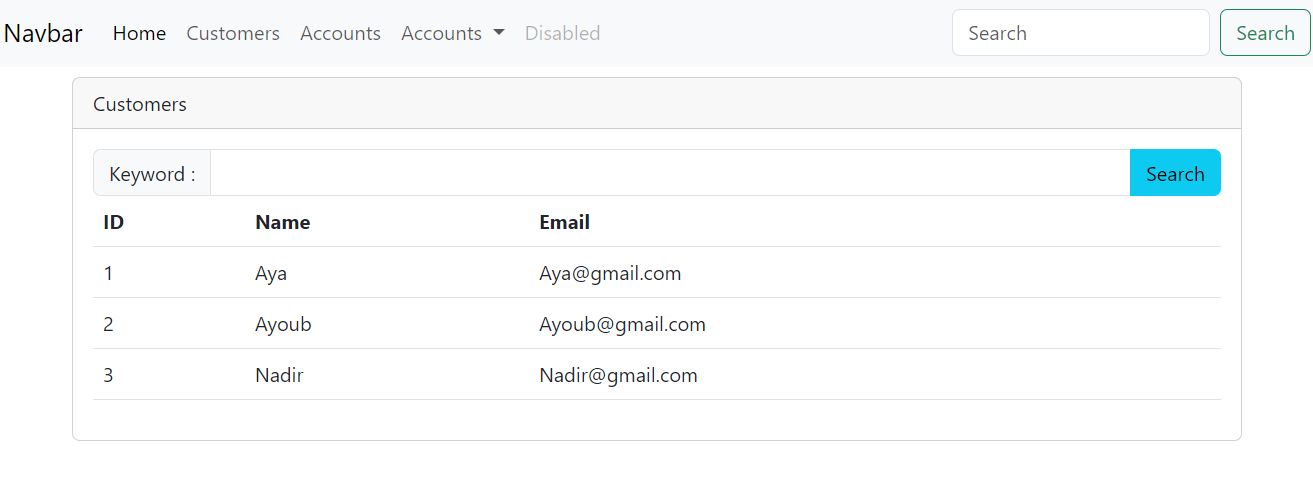
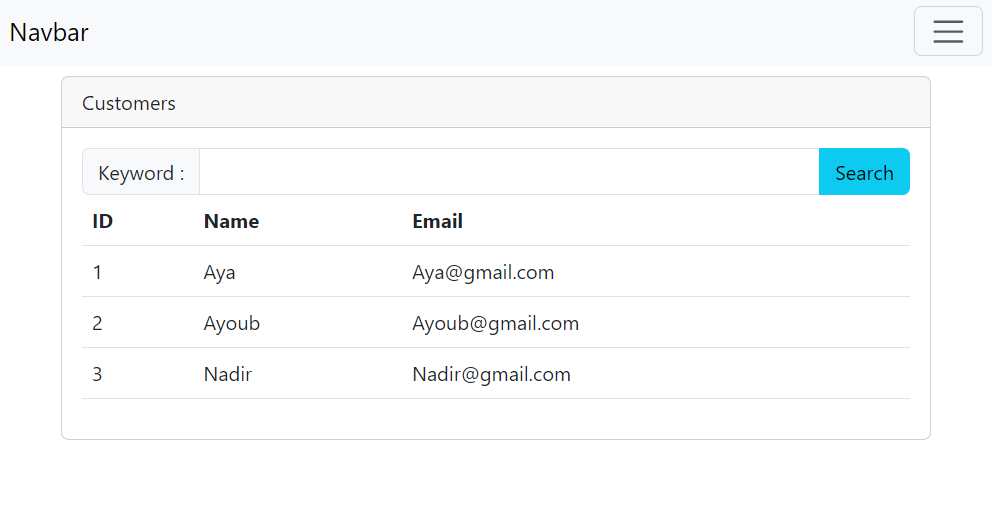
updates

diff --git a/ebanking-frontend/src/app/navbar/navbar.component.html b/ebanking-frontend/src/app/navbar/navbar.component.html
@@ -1,4 +1,4 @@
-<nav class="navbar navbar-expand-lg navbar-light bg-light">
+<nav class="navbar navbar-expand-lg navbar-dark bg-dark">
   <div class="container-fluid">
     <a class="navbar-brand" href="#">Navbar</a>
     <button class="navbar-toggler" type="button" data-bs-toggle="collapse" data-bs-target="#navbarSupportedContent" aria-controls="navbarSupportedContent" aria-expanded="false" aria-label="Toggle navigation">
@@ -10,20 +10,16 @@
           <a class="nav-link active" aria-current="page" href="#">Home</a>
         </li>
         <li class="nav-item">
-          <a class="nav-link" routerLink="/customers">Customers</a>
-        </li>
-        <li class="nav-item">
           <a class="nav-link" routerLink="/accounts">Accounts</a>
         </li>
         <li class="nav-item dropdown">
           <a class="nav-link dropdown-toggle" href="#" id="navbarDropdown" role="button" data-bs-toggle="dropdown" aria-expanded="false">
-            Accounts
+            Customers
           </a>
           <ul class="dropdown-menu" aria-labelledby="navbarDropdown">
-            <li><a class="dropdown-item" href="#">Accounts</a></li>
-            <li><a class="dropdown-item" href="#">Another action</a></li>
+            <li><a class="dropdown-item" routerLink="/customers">Search customers</a></li>
+            <li><a class="dropdown-item" routerLink="/new-customer">New customer</a></li>
             <li><hr class="dropdown-divider"></li>
-            <li><a class="dropdown-item" href="#">Something else here</a></li>
           </ul>
         </li>
         <li class="nav-item">

diff --git a/ebanking-frontend/src/app/new-customer/new-customer.component.html b/ebanking-frontend/src/app/new-customer/new-customer.component.html
@@ -1,0 +1,34 @@
+<div class="container">
+  <div class="card col-md-6 offset-3 mt-5">
+    <div class="card-header bg-primary text-white">New Customer</div>
+    <div class="card-body">
+      <form [formGroup]="newCustomerFormGroup" (ngSubmit)="handleSaveCustomer()" class="needs-validation" novalidate>
+        <div class="mb-3">
+          <div class="form-group">
+            <label class="font-weight-bold">Name:</label>
+            <input type="text" formControlName="name" class="form-control">
+            <span class="text-danger"
+                  *ngIf="newCustomerFormGroup.controls['name'].touched
+                        && newCustomerFormGroup.controls['name'].errors
+                        && newCustomerFormGroup.controls['name'].errors!['required']">
+              Name is Required
+            </span>
+          </div>
+          <div class="form-group">
+            <label class="font-weight-bold">Email:</label>
+            <input type="text" formControlName="email" class="form-control">
+            <span class="text-danger"
+                  *ngIf="newCustomerFormGroup.controls['email'].touched
+                        && newCustomerFormGroup.controls['email'].errors
+                        && newCustomerFormGroup.controls['email'].errors!['email']">
+              Email is not Valid
+            </span>
+          </div>
+        </div>
+        <div class="d-grid">
+          <button [disabled]="newCustomerFormGroup.invalid" class="btn btn-primary btn-lg rounded-end">Save</button>
+        </div>
+      </form>
+    </div>
+  </div>
+</div>

diff --git a/ebanking-frontend/src/app/new-customer/new-customer.component.ts b/ebanking-frontend/src/app/new-customer/new-customer.component.ts
@@ -1,0 +1,35 @@
+import {Component, OnInit} from '@angular/core';
+import {FormBuilder, FormGroup, Validators} from "@angular/forms";
+import {CustomerService} from "../services/customer.service";
+import {Router} from "@angular/router";
+import {Customer} from "../model/customer.model";
+
+@Component({
+  selector: 'app-new-customer',
+  templateUrl: './new-customer.component.html',
+  styleUrls: ['./new-customer.component.css']
+})
+export class NewCustomerComponent implements OnInit{
+  newCustomerFormGroup! :FormGroup;
+  constructor(private fb :FormBuilder,private customerService : CustomerService, private router : Router) {
+  }
+  ngOnInit(): void {
+    this.newCustomerFormGroup=this.fb.group({
+      name: this.fb.control(null,[Validators.required , Validators.minLength(4)]),
+      email :this.fb.control(null, [Validators.required, Validators.email])
+    });
+  }
+
+  handleSaveCustomer() {
+    let customer : Customer = this.newCustomerFormGroup.value
+    this.customerService.saveCustomer(customer).subscribe({
+      next : data => {
+        alert("Customer has been saved!")
+        //this.newCustomerFormGroup.reset();
+        this.router.navigateByUrl("/customers")
+      }, error : err => {
+        console.log(err)
+      }
+    })
+  }
+}

diff --git a/ebanking-frontend/src/app/customers/customers.component.html b/ebanking-frontend/src/app/customers/customers.component.html
@@ -8,7 +8,9 @@
             <div class="input-group">
               <label class="input-group-text">Keyword :</label>
               <input type="text" formControlName="keyword" class="form-control">
-              <button class="btn btn-info">Search</button>
+              <button class="btn btn-info">
+                <i class="bi bi-search"></i>
+              </button>
             </div>
           </form>
         </div>
@@ -23,6 +25,16 @@
             <td>{{c.id}}</td>
             <td>{{c.name}}</td>
             <td>{{c.email}}</td>
+            <td>
+              <div class="d-flex justify-content-start">
+                <button class="btn btn-light btn-action me-4" routerLink="/editCustomer">
+                  <i class="bi bi-pencil-fill"></i>
+                </button>
+                <button class="btn btn-danger btn-action me-4" (click)="handleDeleteCustomer(c)">
+                  <i class="bi bi-trash-fill"></i>
+                </button>
+              </div>
+            </td>
           </tr>
           </tbody>
         </table>

diff --git a/ebanking-frontend/src/app/customers/customers.component.ts b/ebanking-frontend/src/app/customers/customers.component.ts
@@ -1,7 +1,7 @@
 import {Component, OnInit} from '@angular/core';
 import {HttpClient} from "@angular/common/http";
 import {CustomerService} from "../services/customer.service";
-import {catchError, Observable, throwError} from "rxjs";
+import {catchError, map, Observable, throwError} from "rxjs";
 import {Customer} from "../model/customer.model";
 import {FormBuilder, FormGroup} from "@angular/forms";
 
@@ -30,6 +30,25 @@ export class CustomersComponent implements OnInit{
         return throwError(err);
       })
     );
+
+  }
+
+  handleDeleteCustomer(c: Customer) {
+    let conf = confirm("Are you sure?");
+    if(!conf) return;
+    this.customerService.deleteCustomer(c.id).subscribe({
+      next : (resp) => {
+        this.customers = this.customers.pipe(
+          map(data => {
+            let index = data.indexOf(c);
+            data.slice(index,1)
+            return data;
+          })
+        )
+      }, error : err => {
+        console.log(err)
+      }
+    })
 
   }
 }

diff --git a/ebanking-frontend/src/app/services/customer.service.ts b/ebanking-frontend/src/app/services/customer.service.ts
@@ -15,4 +15,15 @@ export class CustomerService {
   public searchCustomers(keyword :string):Observable<Array<Customer>>{
     return this.http.get<Array<Customer>>(this.backendHost+"/customers/search?keyword="+keyword)
   }
+  public saveCustomer(customer : Customer) : Observable<Customer> {
+    return this.http.post<Customer>(this.backendHost+"/customers",customer)
+  }
+
+  public deleteCustomer(id : number) : Observable<Customer> {
+    return this.http.delete<Customer>(this.backendHost+"/customers/"+id)
+  }
+
+  public updateCustomer(id : number, customer : Customer) : Observable<Customer> {
+    return this.http.put<Customer>(this.backendHost+"/customers/"+id ,customer)
+  }
 }

diff --git a/ebanking-frontend/src/app/new-customer/new-customer.component.spec.ts b/ebanking-frontend/src/app/new-customer/new-customer.component.spec.ts
@@ -1,0 +1,21 @@
+import { ComponentFixture, TestBed } from '@angular/core/testing';
+
+import { NewCustomerComponent } from './new-customer.component';
+
+describe('NewCustomerComponent', () => {
+  let component: NewCustomerComponent;
+  let fixture: ComponentFixture<NewCustomerComponent>;
+
+  beforeEach(() => {
+    TestBed.configureTestingModule({
+      declarations: [NewCustomerComponent]
+    });
+    fixture = TestBed.createComponent(NewCustomerComponent);
+    component = fixture.componentInstance;
+    fixture.detectChanges();
+  });
+
+  it('should create', () => {
+    expect(component).toBeTruthy();
+  });
+});

diff --git a/ebanking-frontend/src/app/app.module.ts b/ebanking-frontend/src/app/app.module.ts
@@ -8,13 +8,15 @@ import { CustomersComponent } from './customers/customers.component';
 import { AccountsComponent } from './accounts/accounts.component';
 import {HttpClient, HttpClientModule} from "@angular/common/http";
 import {ReactiveFormsModule} from "@angular/forms";
+import { NewCustomerComponent } from './new-customer/new-customer.component';
 
 @NgModule({
   declarations: [
     AppComponent,
     NavbarComponent,
     CustomersComponent,
-    AccountsComponent
+    AccountsComponent,
+    NewCustomerComponent
   ],
   imports: [
     BrowserModule,

diff --git a/ebanking-frontend/src/app/app-routing.module.ts b/ebanking-frontend/src/app/app-routing.module.ts
@@ -2,10 +2,12 @@ import { NgModule } from '@angular/core';
 import { RouterModule, Routes } from '@angular/router';
 import {CustomersComponent} from "./customers/customers.component";
 import {AccountsComponent} from "./accounts/accounts.component";
+import {NewCustomerComponent} from "./new-customer/new-customer.component";
 
 const routes: Routes = [
   {path :"customers",component:CustomersComponent},
   {path :"accounts",component:AccountsComponent},
+  {path :"new-customer",component:NewCustomerComponent},
 ];
 
 @NgModule({

diff --git a/ebanking-frontend/src/styles.css b/ebanking-frontend/src/styles.css
@@ -1,1 +1,2 @@
 /* You can add global styles to this file, and also import other style files */
+@import "~node_modules/bootstrap-icons/font/bootstrap-icons.css";
